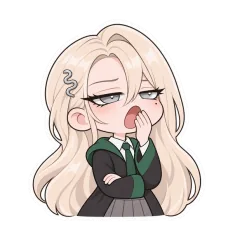
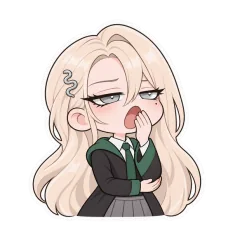
feat(blog): Show the redrawn bored sticker and everyday messages in Malfoid's viewer
The Malfoid Stickers landing now shows the redrawn "bored" sticker, Malfoid yawning behind her hand, in the gallery and the sticker viewer. In the viewer, the emotionally defeated sticker now answers "Tomorrow is Monday again." ("Mañana es lunes otra vez."), and the exhausted one "How was your day?" ("¿Qué tal tu día?"), so every example message reads as an everyday chat.

diff --git a/apps/blog/resources/content/malfoid/stickers.ts b/apps/blog/resources/content/malfoid/stickers.ts
@@ -420,7 +420,7 @@ export const STICKER_CATALOG = {
 	exhausted: {
 		category: "sadness-and-exhaustion",
 		alt: { en: "Malfoid droops with exhaustion.", "es-AR": "Malfoid está rendida de cansancio." },
-		prompt: { en: "How was your Monday?", "es-AR": "¿Qué tal tu lunes?" },
+		prompt: { en: "How was your day?", "es-AR": "¿Qué tal tu día?" },
 	},
 	sleeping: {
 		category: "sadness-and-exhaustion",
@@ -444,7 +444,7 @@ export const STICKER_CATALOG = {
 			en: "Malfoid slumps down, emotionally defeated.",
 			"es-AR": "Malfoid se desploma, sin ánimos.",
 		},
-		prompt: { en: "Your branch has 47 merge conflicts.", "es-AR": "Tu rama tiene 47 conflictos." },
+		prompt: { en: "Tomorrow is Monday again.", "es-AR": "Mañana es lunes otra vez." },
 	},
 	"under-blanket": {
 		category: "sadness-and-exhaustion",
